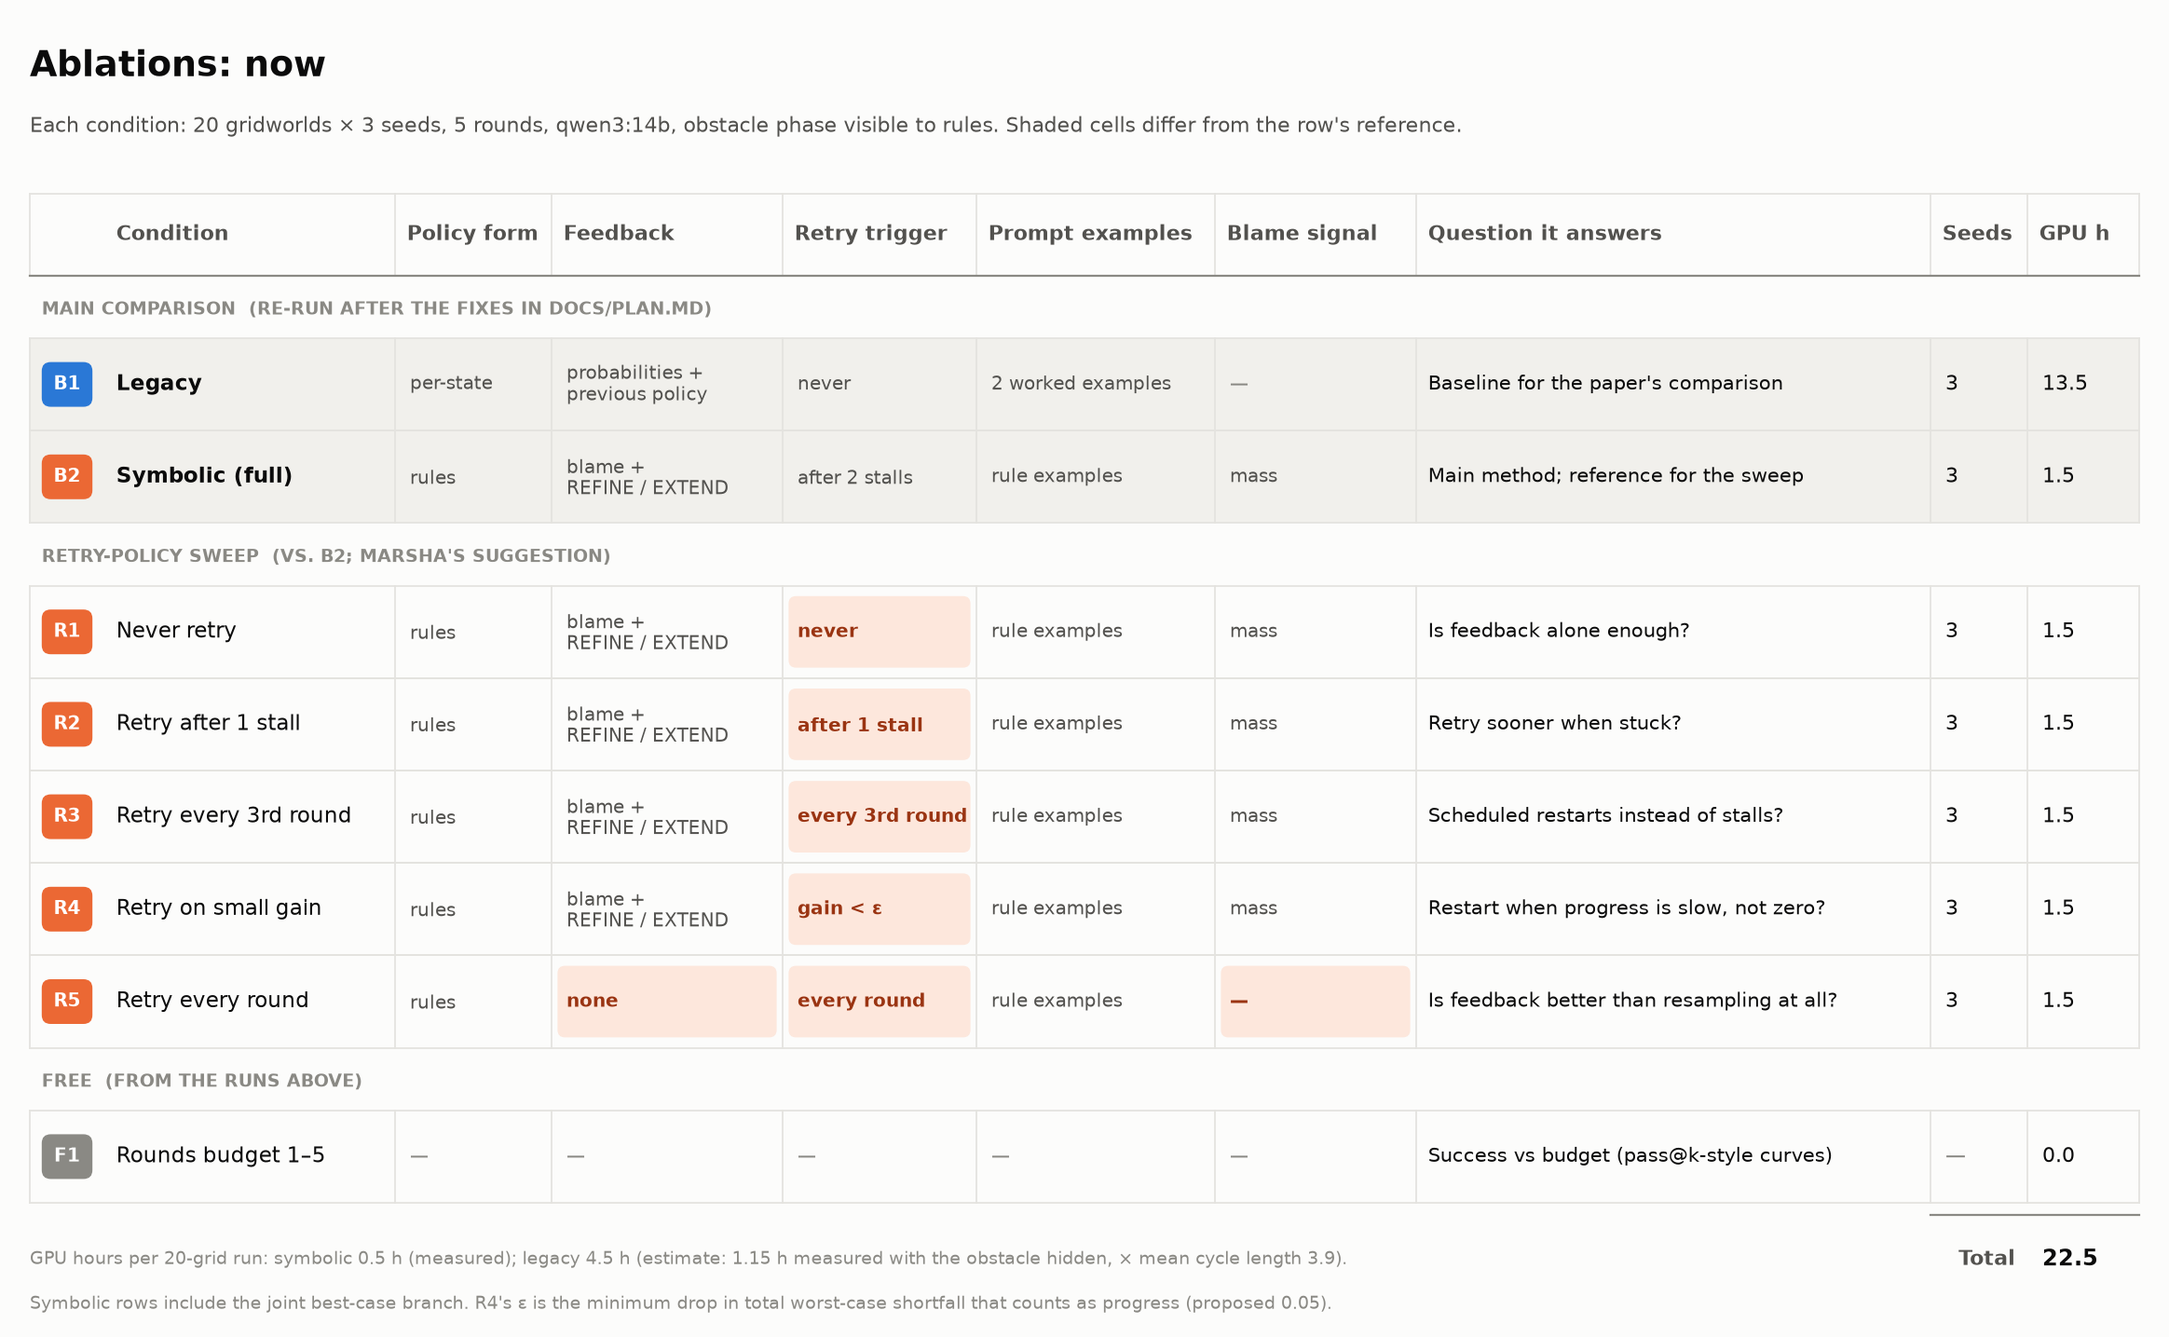
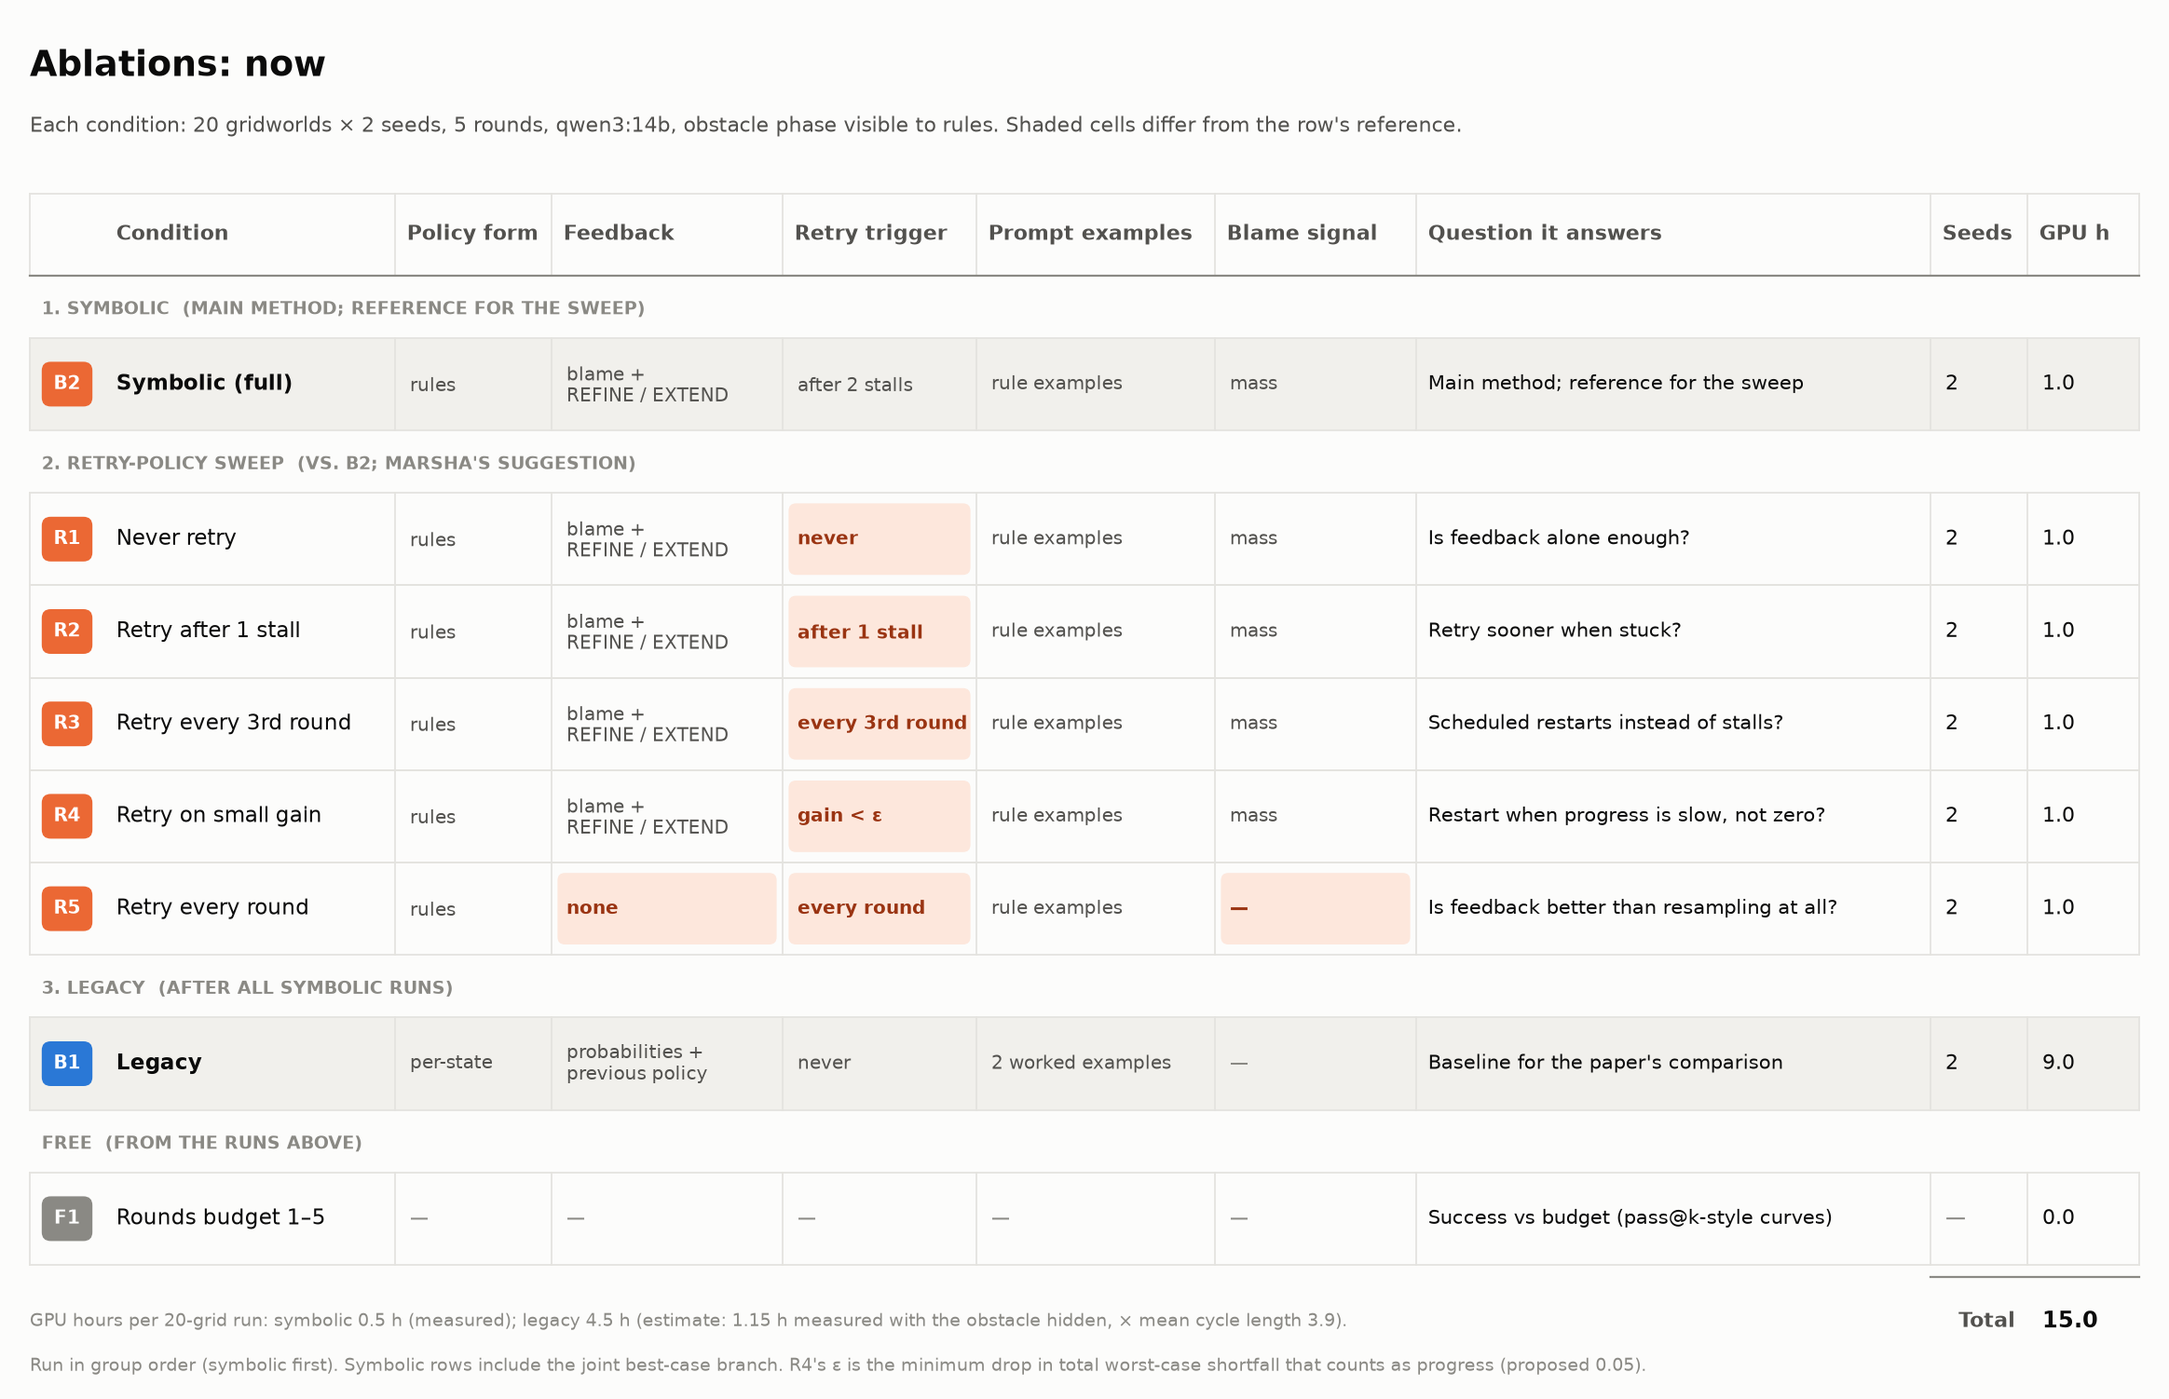
Docs: config inventory, plan updates (A0 config, energy on hold, 2 seeds, symbolic before legacy), regenerated grids

diff --git a/PRISM-Guided-Learning/viz/plot_ablation_grid.py b/PRISM-Guided-Learning/viz/plot_ablation_grid.py
@@ -17,7 +17,7 @@ CHANGED_FILL, CHANGED_INK = "#fde7dc", "#9a3412"   # differs from the row's refe
 REF_FILL = "#f1f0ec"
 DOCS = Path(__file__).resolve().parents[2] / "docs"
 
-SEEDS = 3
+SEEDS = 2
 H_LEGACY, H_SYMBOLIC = 1.15, 0.5   # measured GPU hours per 20-grid run (2 workers), obstacle hidden
 H_LEGACY_VISIBLE = 4.5             # estimate: legacy writes one action per (cell, obstacle phase); mean cycle 3.9
 
@@ -45,12 +45,10 @@ def leg(**changes):
 
 # Row: (id, name, family, values, question, seeds, gpu hours or None, is_reference)
 NOW = [
-    ("group", "Main comparison  (re-run after the fixes in docs/plan.md)"),
-    ("B1", "Legacy", "legacy", LEGACY_REF, "Baseline for the paper's comparison", SEEDS,
-     SEEDS * H_LEGACY_VISIBLE, True),
+    ("group", "1. Symbolic  (main method; reference for the sweep)"),
     ("B2", "Symbolic (full)", "symbolic", SYMBOLIC_REF, "Main method; reference for the sweep", SEEDS,
      SEEDS * H_SYMBOLIC, True),
-    ("group", "Retry-policy sweep  (vs. B2; Marsha's suggestion)"),
+    ("group", "2. Retry-policy sweep  (vs. B2; Marsha's suggestion)"),
     ("R1", "Never retry", "symbolic", sym(retry="never"), "Is feedback alone enough?", SEEDS, SEEDS * H_SYMBOLIC, False),
     ("R2", "Retry after 1 stall", "symbolic", sym(retry="after 1 stall"), "Retry sooner when stuck?", SEEDS,
      SEEDS * H_SYMBOLIC, False),
@@ -60,6 +58,9 @@ NOW = [
      SEEDS, SEEDS * H_SYMBOLIC, False),
     ("R5", "Retry every round", "symbolic", sym(feedback="none", retry="every round", blame="—"),
      "Is feedback better than resampling at all?", SEEDS, SEEDS * H_SYMBOLIC, False),
+    ("group", "3. Legacy  (after all symbolic runs)"),
+    ("B1", "Legacy", "legacy", LEGACY_REF, "Baseline for the paper's comparison", SEEDS,
+     SEEDS * H_LEGACY_VISIBLE, True),
     ("group", "Free  (from the runs above)"),
     ("F1", "Rounds budget 1–5", "both", ["—"] * 5, "Success vs budget (pass@k-style curves)", None, 0.0, False),
 ]
@@ -171,7 +172,7 @@ def main():
     draw(NOW, "Ablations: now", common, [
         f"GPU hours per 20-grid run: symbolic {H_SYMBOLIC} h (measured); legacy {H_LEGACY_VISIBLE} h "
         f"(estimate: {H_LEGACY} h measured with the obstacle hidden, × mean cycle length 3.9).",
-        "Symbolic rows include the joint best-case branch. R4's ε is the minimum drop in total worst-case "
+        "Run in group order (symbolic first). Symbolic rows include the joint best-case branch. R4's ε is the minimum drop in total worst-case "
         "shortfall that counts as progress (proposed 0.05).",
     ], DOCS / "ablation_now.png")
     draw(DEFERRED, "Ablations: deferred", common, [

diff --git a/docs/plan.md b/docs/plan.md
@@ -7,13 +7,14 @@ Target: **SEAMS 2027** (research track Oct 23; check the official site), with IC
 ## Phase A: code (no GPU)
 | # | Change | Notes / decisions needed before coding |
 |---|---|---|
-| A1 | **Observation switch:** a per-domain `visible` option; gridworld exposes `obs_idx` to rules **and** to legacy. | **Legacy cost:** one action per (cell, phase) means 8×8 × 6 = 384 actions per goal, which is over the 8192-token output cap. Proposal: legacy makes one call per goal *per obstacle phase* (64 actions each). Regression and `legacy_translate` gain `obs_idx`; the hidden setting stays available for the old runs. |
+| A0 | **One config:** move every setting into `configs/default.yaml`, named conditions into `configs/conditions.yaml`, and save the resolved config per run. | Inventory and target layout: `docs/config.md`. Do this first; A1–A7 add their settings there. |
+| A1 | **Observation switch:** a per-domain `visible` option; gridworld exposes `obs_idx` to rules **and** to legacy. | **Legacy cost:** one action per (cell, phase) means 8×8 × 6 = 384 actions per goal, which is over the 8192-token output cap. Decided (for now): legacy makes one call per goal *per obstacle phase* (64 actions each). The legacy side can land last, since legacy runs come after all symbolic runs. Regression and `legacy_translate` gain `obs_idx`; the hidden setting stays available for the old runs. |
 | A2 | **Joint best case** in the REFINE/EXTEND branch (PRISM `multi(…)`, `-sparse` engine, about 1.3 s per check). | Log per-requirement vs joint disagreements per round, so we can report how often the old branch was wrong. |
-| A3 | **Reward requirements** in core: `R{r} ≤ c [F goal]`, best = `Rmin`, worst = `Rmax`; UUV gets an energy budget. | Calibrate the threshold with `domains/uuv/data/calibrate.py` (as for the others). Mass analysis uses the reward vectors (the stake is a cost-to-go gap). PRISM's multi-objective queries accept mixed P/R objectives. |
+| A3 | *On hold (a big change; may break things).* **Reward requirements** in core: `R{r} ≤ c [F goal]`, best = `Rmin`, worst = `Rmax`; UUV gets an energy budget. | When we do it: calibrate the threshold like the others (`domains/uuv/data/calibrate.py`). Mass analysis uses the reward vectors (the stake is a cost-to-go gap). PRISM's multi-objective queries accept mixed P/R objectives. Not needed for any gridworld run. |
 | A4 | **Retry policies** in `PlannerConfig`: `stall:k`, `never`, `every:k`, `gain<ε`, `always`. | R3: k = 3. R4: ε = 0.05 total shortfall. |
 | A5 | **Seeds:** `--seed` in both runners, passed to Ollama's `seed` option. | |
 | A6 | **Ablation runner** `src/run_ablation.py` with a condition registry, and the `out/results/ablations/…` layout. | See `docs/ablations.md`. |
-| A7 | **Mass horizon H** per domain (default 100; UUV = its deadline). | Decide now; it changes feedback, so changing it later means re-runs. |
+| A7 | **Mass horizon H** as a config value, settable per domain (gridworld stays at 100). | **Open:** UUV = its deadline? Decide before any UUV run. It doesn't affect the gridworld runs. |
 | A8 | **Analysis:** ceilings script, renormalized metrics, F1 budget curves, revised write-up statistics (medians and spread, input tokens, PRISM time, coverage, no "every metric"). | |
 | A9 | Tests for A1–A4, plus a `--limit 1` smoke run of each changed path (asks first). | |
 
@@ -23,11 +24,12 @@ Target: **SEAMS 2027** (research track Oct 23; check the official site), with IC
 - F1 budget curves from the existing runs (illustrative only, since they predate A1–A2).
 
 ## Phase C: runs (after A, with a go)
+2 seeds per condition, every seed's outputs kept (`docs/ablations.md`). **All symbolic runs first, then legacy.**
 1. Smoke tests (`--limit 1`) for each changed path.
-2. Main comparison B1 + B2: gridworld, 3 seeds. Legacy is the expensive one, an estimated ~4.5 h per seed with the obstacle visible.
-3. UUV symbolic with the energy requirement: both scenarios, 3 seeds (minutes).
-4. Retry sweep R1–R5: 3 seeds each, about 7.5 h total.
-5. Deferred ablations only after the story is settled.
+2. B2 symbolic: gridworld, 2 seeds (~1 h).
+3. Retry sweep R1–R5: 2 seeds each (~5 h).
+4. B1 legacy with the obstacle visible: 2 seeds (estimated ~9 h).
+5. Later: UUV with the energy requirement (after A3), and the deferred ablations once the story is settled.
 
 ## "Why an LLM?" (Asher to write; inputs)
 The meeting asked for a reason the LLM goes *beyond* PRISM: ~3 paragraphs plus early evidence. Candidates:

diff --git a/docs/config.md b/docs/config.md
@@ -1,0 +1,78 @@
+# Configuration
+
+Every setting that affects a run, in one place. **Today these are scattered across the code (the "Where today" column). Phase A0 in `docs/plan.md` moves them into one config file.** Keep this table in sync with that file.
+
+## Target layout (A0)
+- `PRISM-Guided-Learning/configs/default.yaml`: every setting below with its default, grouped as in the tables.
+- `PRISM-Guided-Learning/configs/conditions.yaml`: named conditions (B1, B2, R1–R5, S1…, L1…), each a small override of the default.
+- `src/config.py`: loads the default, applies a condition plus any CLI overrides, and validates against dataclasses (unknown keys are errors).
+- Every run writes its fully resolved config to `<run>/config.json`, so any result can be traced to its exact settings.
+- Domain constants that **define the problem** (thresholds, dynamics) stay in the domain's files. They're listed here for reference but aren't run settings.
+
+## LLM
+| Key | Default | Where today | Ablated? |
+|---|---|---|---|
+| `llm.model` | `qwen3:14b-q4_K_M` | `settings.py` (or `$OLLAMA_MODEL`) | deferred (stronger model) |
+| `llm.think` | `false` | `settings.py` | no |
+| `llm.num_ctx` | 16384 | `settings.py` | no |
+| `llm.num_predict` | 8192 | `settings.py` | no |
+| `llm.seed` | none (new: one per seed) | not set (new, A5) | seeds 1, 2 |
+| `llm.temperature` | model default | not set | no |
+
+## Symbolic planner
+| Key | Default | Where today | Ablated? |
+|---|---|---|---|
+| `planner.max_rounds` | 5 | `PlannerConfig.max_attempts` | F1 (budget curves, free) |
+| `planner.max_fixups` | 2 re-asks per round | `PlannerConfig.max_fixups` | no |
+| `planner.retry` | `stall:2` | `PlannerConfig.stall_limit` | **R1** `never`, **R2** `stall:1`, **R3** `every:3`, **R4** `gain:0.05`, **R5** `always` |
+| `planner.branch` | `joint` (new) | per-requirement (A2) | no |
+| `planner.feedback` | `blame` | hard-coded | S1 `table`, R5 `none` |
+| `planner.max_rules` / `max_condition_chars` | 64 / 200 | `rule_schema()` | no |
+| `planner.keep_best_score` | (worst fails, best fails, worst shortfall, best shortfall) | `_score()` | no |
+
+## Feedback (mass analysis)
+| Key | Default | Where today | Ablated? |
+|---|---|---|---|
+| `feedback.blame` | `mass` | `MassAnalyzer` | S5 `regret` |
+| `feedback.horizon` (H) | 100 steps | `PlannerConfig.horizon` | no (per-domain value is an open decision) |
+| `feedback.top_k` | 10 rules / hotspots | `PlannerConfig.top_k` | no |
+| `feedback.states_per_rule` | 3 | `analysis.py` | no |
+
+## Prompt
+| Key | Default | Where today | Ablated? |
+|---|---|---|---|
+| `prompt.catch_all_instruction` | on | `core/templates/_problem.md.j2` | done (`DECISIONS.md` catch-all ablation) |
+| `prompt.examples` | on (domain's `examples.md.j2`, incl. catch-all rule) | domain template | S4 off, L2 off (legacy) |
+
+## Domain / observation
+| Key | Default | Where today | Ablated? |
+|---|---|---|---|
+| `domain.name` / `domain.dataset` | `gridworld` / `grid_20_balanced.csv` | CLI | no |
+| `domain.visible_extra` | `[obs_idx]` for gridworld (new) | hidden today (A1) | no (decided: visible for all new runs) |
+| Gridworld dynamics | 0.7 / 0.15 / 0.15 | `domains/gridworld/domain.py` | constant |
+| Gridworld thresholds | goals 0.8, ordering 0.8, avoid 0.7 | `domains/gridworld/domain.py` | constant |
+| UUV thresholds | per scenario | `domains/uuv/data/uuv_paper.csv` | constant |
+
+## Verifier (PRISM)
+| Key | Default | Where today | Ablated? |
+|---|---|---|---|
+| `prism.engine` | `explicit` (`sparse` for `multi`) | `core/prism.py` | no |
+| `prism.java_max_mem` | 4g | `PrismRunner` | no |
+| `prism.max_iters` | 1,000,000 | `PrismRunner` | no |
+| `prism.timeout_s` | 900 | `PrismRunner` | no |
+| `rules.max_enumeration` | 200,000 valuations | `rules.py` | no |
+
+## Legacy
+| Key | Default | Where today | Ablated? |
+|---|---|---|---|
+| `legacy.max_rounds` | 5 | CLI | no |
+| `legacy.retry` | `never` | n/a | L1 `stall:2` |
+| `legacy.examples` | 2 worked examples | `legacy/prompting.py` | L2 off |
+| `legacy.calls` | per goal (new: per goal × obstacle phase) | `legacy/planner.py` | no |
+
+## Run
+| Key | Default | Where today | Ablated? |
+|---|---|---|---|
+| `run.workers` | 2 | CLI | no |
+| `run.seeds` | [1, 2] | n/a (new) | n/a |
+| `run.limit` | all instances | CLI | no |

diff --git a/docs/ablations.md b/docs/ablations.md
@@ -9,9 +9,9 @@ The figures are generated by `PRISM-Guided-Learning/viz/plot_ablation_grid.py`; 
 ![deferred](ablation_deferred.png)
 
 ## Shared setup
-- `grid_20_balanced`, 3 seeds, 5 rounds, qwen3:14b q4_K_M (thinking off), 2 workers, runs one after another (never concurrently).
+- `grid_20_balanced`, 2 seeds (each seed's outputs kept), 5 rounds, qwen3:14b q4_K_M (thinking off), 2 workers, runs one after another (never concurrently). Order: all symbolic conditions first, then legacy.
 - The obstacle phase is visible to rules in **every** condition, legacy included.
-- Every symbolic condition has the joint best-case branch. Nothing runs until all of `docs/plan.md` Phase A is in, so no condition has to be re-run for a code tweak.
+- Every symbolic condition has the joint best-case branch. No symbolic condition runs until `docs/plan.md` Phase A is in (except A3, which is on hold), so no condition has to be re-run for a code tweak. Legacy's part of A1 can land later, before B1.
 
 ## Conditions
 | id | change from its reference |
@@ -29,6 +29,6 @@ The figures are generated by `PRISM-Guided-Learning/viz/plot_ablation_grid.py`; 
 | F1 | No runs. The result with budget k = the kept policy after the first k rounds, because nothing in rounds 1..k depends on later rounds. This gives success vs budget for k = 1..5 from every run above. |
 
 ## Running and storage
-- `src/run_ablation.py <condition> --seeds 1 2 3`: a named registry of conditions, each a config override of the planner or legacy runner. B1 and B2 run through the same entry point.
+- `src/run_ablation.py <condition> --seeds 1 2`: conditions come from `configs/conditions.yaml` (see `docs/config.md`), each an override of `configs/default.yaml`. B1 and B2 run through the same entry point.
 - Outputs: `out/results/ablations/<condition>/seed_<k>/` (same parquet and `outputs/` layout as other runs, plus a `config.json` recording the full settings).
 - Analysis: medians and spread over grids × seeds, paired comparisons per grid against the reference, and F1 curves. Plots go through `viz/plot_runs.py` (to be extended to read the ablation layout).

diff --git a/DECISIONS.md b/DECISIONS.md
@@ -107,7 +107,12 @@ Decisions made while generalizing, to review together. Each entry has the decisi
 - **Ablations, seeds and "which difference drives the gain" are deferred**, except the retry-policy sweep Marsha suggested (R1–R5, `docs/ablations.md`). Rule transfer (5×5 → 8×8) is dropped.
 - **Baselines are per case study** (e.g. RL for gridworld, the paper's controller for UUV).
 - **Energy budget for UUV** (`docs/plan.md` A3). It's expressible in PRISM, so it closes a gap in our core, not in PRISM.
-- **[REVIEW]** Legacy with the obstacle visible needs one action per (cell, phase), up to 384 per goal on 8×8, which exceeds the output cap. The proposal is one call per (goal, obstacle phase).
+- Legacy with the obstacle visible: one call per (goal, obstacle phase), accepted for now. **All symbolic runs come first; legacy runs come after.**
+- Retry sweep settings accepted: R3 restarts every 3rd round; R4 counts progress as a drop of at least 0.05 in total worst-case shortfall.
+- **2 seeds per condition**, and every seed's outputs are kept.
+- **Energy requirement (A3) on hold:** it's a big core change. When it's done, calibrate the threshold like the others.
+- **All settings go in one config** (`docs/config.md`, plan item A0): defaults plus named conditions, with the resolved config saved per run.
+- **[REVIEW]** Mass horizon H for UUV (the deadline?) is still open. Gridworld stays at 100.
 
 ## Results (qwen3:14b, grid_20_balanced, 5 attempts, thinking off)
 - `out/results/comparison_grid20/report.md`, `viz/figures/grid20.png`. Symbolic numbers come from the **capped** run (`symbolic_grid20_capped`).

diff --git a/CLAUDE.md b/CLAUDE.md
@@ -5,6 +5,7 @@ LLM-based planning with probabilistic verification. An LLM writes a **symbolic, 
 ## Docs (`docs/`)
 - `plan.md`: the current work plan. Code changes (Phase A) all land before any run.
 - `semantics.md`: the formal semantics of rule sets, the induced MDP and the loop branch. **Update it whenever the inputs, the rule language or the REFINE/EXTEND branch change.**
+- `config.md`: every run setting, its default, where it lives and whether it is ablated. Keep it in sync with `configs/`.
 - `ablations.md` + `ablation_now.png` / `ablation_deferred.png`: planned ablations. Regenerate the PNGs with `viz/plot_ablation_grid.py` after editing its tables.
 
 ## Where things live

diff --git a/README.md b/README.md
@@ -30,7 +30,7 @@ PRISM-Guided-Learning/
   tests/
   out/results/       run outputs
 DECISIONS.md         design decisions to review
-docs/                plan.md (work plan), semantics.md (formal semantics), ablations.md (+ grid figures)
+docs/                plan.md (work plan), semantics.md (formal semantics), config.md (all settings), ablations.md (+ grids)
 ```
 
 ## Running (from `PRISM-Guided-Learning/`)
